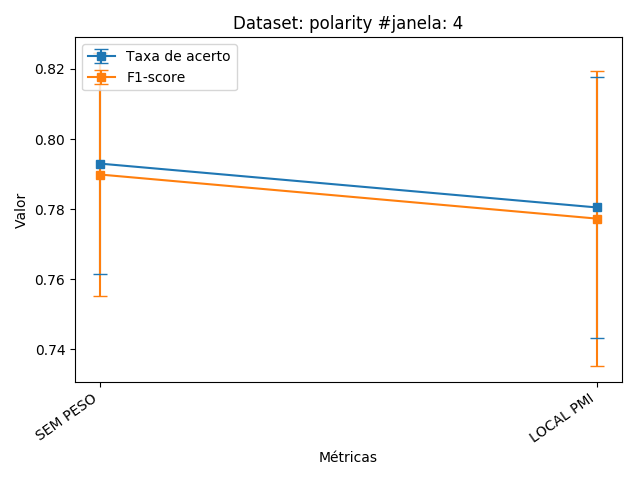
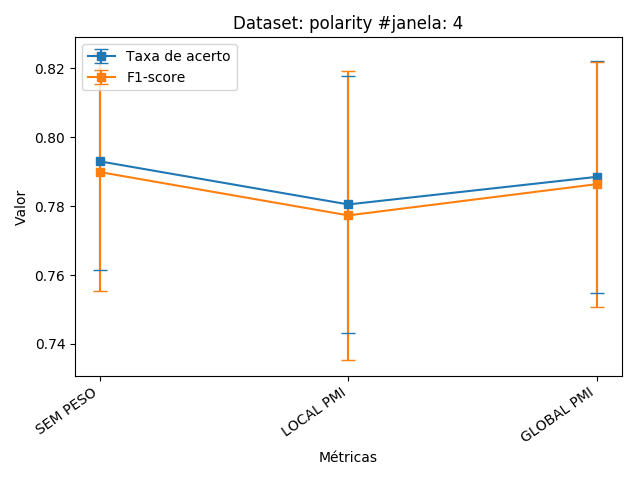
added results for pmi all window 4 cut 5%

diff --git a/results_main.py b/results_main.py
@@ -152,7 +152,7 @@ def main():
     f1_output = open(default_output_dir  + "/" + "f1_" + args.dataset + "_" + str(args.window) + ".txt", "w")
     output_fig = default_output + ".png"
 
-    strategies = ["pmi"]
+    strategies = ["pmi", "pmi_all"]
     #read results for each strategy
     for s in strategies:
         f = open(directory + args.dataset + '_' + method + '_' + s + '_' + str(args.window) + '.txt', 'r')
@@ -168,7 +168,7 @@ def main():
         "/"
     )
 
-    strategies = ["no_weight", "pmi"]
+    strategies = ["no_weight", "pmi", "pmi_all"]
     statistical_tests(all_acc, all_f1, args.window, strategies)
     mean_acc, std_acc = mean_and_std(all_acc, acc_output)
     mean_f1, std_f1 = mean_and_std(all_f1, f1_output)
